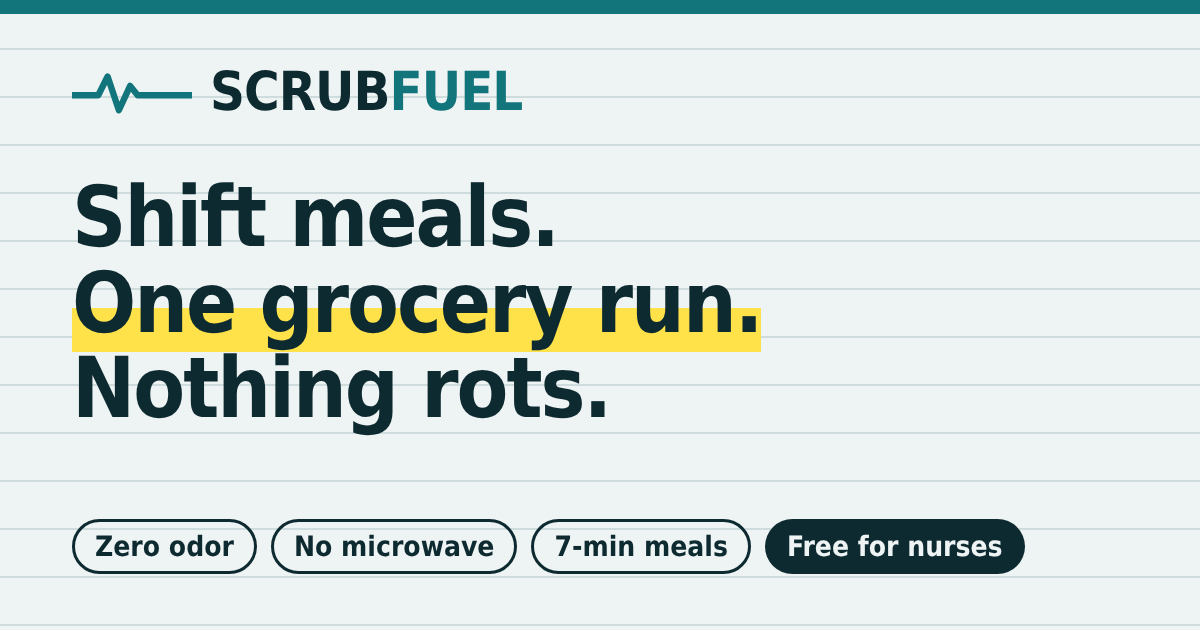
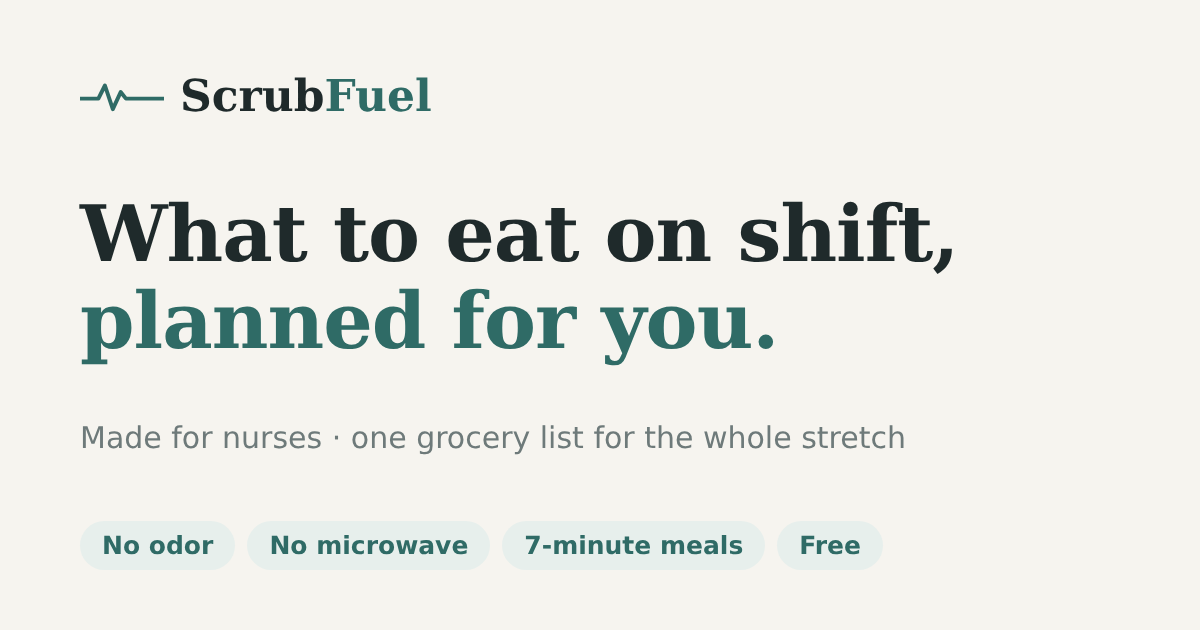
Clearer headline: 'What to eat on shift, planned for you.' + calm share image
Claude-Session: https://claude.ai/code/session_01PFgLztAyH125GsAD1EYPv7

diff --git a/public/index.html b/public/index.html
@@ -5,7 +5,7 @@
 <meta name="viewport" content="width=device-width,initial-scale=1,viewport-fit=cover">
 <title>ScrubFuel</title>
 <meta name="claude:viewport-fit-sides" content="cover">
-<meta name="description" content="Meal plans and one zero-waste grocery run built around your nursing shifts. Zero-odor, no-microwave and 7-minute meals, plus a caffeine and hydration plan.">
+<meta name="description" content="What to eat on your nursing shifts, planned for you. No-odor, no-microwave, 7-minute meals, one grocery list for the whole stretch, plus caffeine and hydration timing.">
 <meta name="theme-color" content="#f6f4ef" media="(prefers-color-scheme: light)">
 <meta name="theme-color" content="#121816" media="(prefers-color-scheme: dark)">
 <meta name="apple-mobile-web-app-capable" content="yes">
@@ -14,8 +14,8 @@
 <link rel="canonical" href="https://scrubfuel.com/">
 <meta property="og:type" content="website">
 <meta property="og:url" content="https://scrubfuel.com/">
-<meta property="og:title" content="ScrubFuel: shift meals + one grocery run">
-<meta property="og:description" content="Pick your shifts. Get zero-odor, no-microwave, 7-minute meals and one zero-waste grocery list. Free, made for nurses.">
+<meta property="og:title" content="ScrubFuel: what to eat on shift, planned for you">
+<meta property="og:description" content="Made for nurses. Tap the days you work, get no-odor, no-microwave, 7-minute meals and one grocery list for the whole stretch. Free.">
 <meta property="og:image" content="https://scrubfuel.com/og.png">
 <meta name="twitter:card" content="summary_large_image">
 <link rel="manifest" href="/manifest.webmanifest">
@@ -42,8 +42,8 @@
   <button class="setupbar" id="setupBar" type="button" hidden aria-expanded="false" aria-controls="setup"></button>
 
   <section class="hero" id="hero">
-    <h1>Shift meals, sorted. <mark>One grocery run</mark> for the whole stretch.</h1>
-    <p>Tap your shifts and get simple, high-protein meals that work on the floor, plus one grocery list that uses up everything you buy.</p>
+    <h1>What to eat on shift, <mark>planned for you.</mark></h1>
+    <p>Made for nurses. Tap the days you work and get simple, high-protein meals you can eat on the floor, plus one grocery list for the whole stretch.</p>
   </section>
 
   <div id="setup">

diff --git a/public/sw.js b/public/sw.js
@@ -1,5 +1,5 @@
 // ScrubFuel service worker: works offline in the breakroom, always fetches fresh code when online.
-const SHELL = "scrubfuel-shell-v9";
+const SHELL = "scrubfuel-shell-v10";
 const FILES = ["/", "/app.css", "/app.js", "/planner.js", "/food.js", "/steps.js", "/stores.js", "/manifest.webmanifest", "/icon-192.png", "/icon-512.png"];
 
 self.addEventListener("install", e => { e.waitUntil(caches.open(SHELL).then(c => c.addAll(FILES)).then(() => self.skipWaiting())); });
